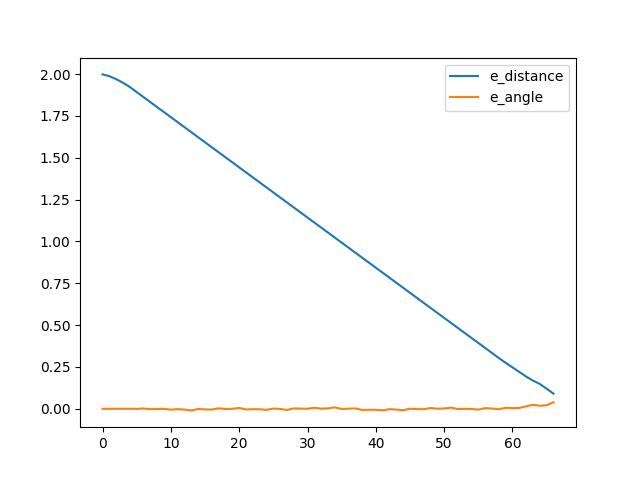
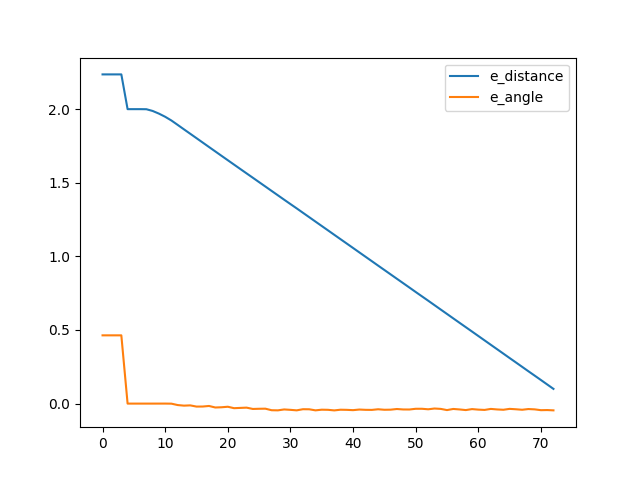
still trying

diff --git a/src/independent_paths.py b/src/independent_paths.py
@@ -6,23 +6,19 @@ from rospy.rostime import Duration
 from tf.transformations import euler_from_quaternion, quaternion_from_euler
 from geometry_msgs.msg import Twist
 from nav_msgs.msg import Odometry
-from formation.msg import To_Goal
-from sensor_msgs.msg import LaserScan
+from formation.msg import arrive
 
 class go_to_Goal:
     def __init__(self):
+        #initialization
         self.follow = Twist()
         self.follower1 = Twist()
         self.follower2 = Twist()
-        self.arrive = To_Goal()
-        self.other_arrive_1 = To_Goal()
-        self.other_arrive_2 = To_Goal()
-        self.scan = LaserScan()
+        self.arrive = arrive()
         self.rate = rospy.Rate(10)
         self.sleeper = rospy.Rate(5)
         self.x, self.y, self.z, self.a1 = 0, 0, 0, 0
         self.vel_1_linear, self.vel_1_angular, self.vel_2_linear, self.vel_2_angular = 0, 0, 0, 0
-        self.other_arrive_1, self.other_arrive_2 = False, False
 
         #All the parameter
         self.name = rospy.get_param('~turtle')
@@ -32,8 +28,7 @@ class go_to_Goal:
 
         #All the publisher
         self.pub_vel = rospy.Publisher('/%s/cmd_vel' % self.name, Twist, queue_size=1)
-        self.pub_vel_1 = rospy.Publisher('/%s/cmd_vel' % self.others1, Twist, queue_size=1)
-        self.pub_vel_2 = rospy.Publisher('/%s/cmd_vel' % self.others2, Twist, queue_size=1)
+        self.pub_arrive = rospy.Publisher('%s_arrive' % self.name, arrive, queue_size=1)
 
         #All the subscriber
         self.turtle = rospy.Subscriber('/%s/odom' % self.name, Odometry, self.turtle_odom)
@@ -43,27 +38,27 @@ class go_to_Goal:
         #generate trajectory
         self.traj = self.traj_trans(3, self.offset, 5)
         self.log = []
-        #rospy.spin()
 
         while not rospy.is_shutdown():
             for i in range(len(self.traj)):
                 point = self.traj[i]
                 if self.go_to_goal(point[0], point[1]):
                     
+                    #wait until all the robots arrive at the waypoints
                     while (self.vel_1_linear != 0) or (self.vel_2_linear != 0) or (self.vel_1_angular != 0) or (self.vel_2_angular != 0):
                         self.follow.linear.x = 0
                         self.follow.angular.z = 0
                         self.pub_vel.publish(self.follow)
                         self.rate.sleep()
-                        
-                        #self.pub_arrive_1.publish(self.arrive)
-                        #self.pub_arrive_2.publish(self.arrive) 
+
+                    #plot the error    
                     plt.plot(self.log[1:])
                     plt.legend(['e_distance','e_angle'])
                     plt.savefig('/home/jack/catkin_ws/src/formation/error_plot/%spath_data.png' % self.name)
                     continue
 
                 else:
+                    #go back to the last waypoint if the robot fail to arrive at this waypoint
                     print ('invalid goal, return to last point')
                     if self.go_to_goal(self.traj[i-1][0],self.traj[i-1][1]):
                         continue
@@ -72,16 +67,7 @@ class go_to_Goal:
             self.follow.angular.z = 0
             self.pub = rospy.Publisher('/%s/cmd_vel' % self.name, Twist, queue_size=1)
             self.pub_vel.publish(self.follow)
-            break
-    
-    def turtle_scan(self, msg):
-        self.other_scan = msg
-
-    def turtle_arrive_1(self, msg):
-        self.other_arrive_1 = msg
-
-    def turtle_arrive_2(self, msg):
-        self.other_arrive_2 = msg    
+            break  
 
     def turtle_odom(self, msg):
         self.msg1 = msg
@@ -128,54 +114,20 @@ class go_to_Goal:
 
     def go_to_goal(self, x_goal, y_goal):
         mission_time_begin = rospy.Time.now()
-        #keep the robot on the correct orientation
-        #self.arrive.arrive = False
-        #self.pub_arrive_1.publish(self.arrive)
-        #self.pub_arrive_2.publish(self.arrive)
-        K_angular = [4, 1, 8]
-        K_linear = [1.5, 0.1, 3]
-        I = 0
-        desired_angle_goal = math.atan2(y_goal - self.y, x_goal - self.x)
-        angle = desired_angle_goal - self.a1
-        angle = self.angle_trans(angle)
-        while (abs(angle) > 0.01):
-            desired_angle_goal = math.atan2(y_goal - self.y, x_goal - self.x)
-            angle_0 = desired_angle_goal - self.a1
-            time_begin = rospy.Time.now()
-            self.rate.sleep()
-            time_end = rospy.Time.now()
-            duration = (time_end - time_begin).to_sec()
-            desired_angle_goal = math.atan2(y_goal - self.y, x_goal - self.x)
-            angle = desired_angle_goal - self.a1
-            angle = self.angle_trans(angle)
-            if duration == 0:
-                continue
-            
-            I = I + K_angular[1] * duration * (angle+angle_0)/2
+        self.arrive = False
+        self.pub_arrive.publish(self.arrive)
 
-            angular_speed = (angle * K_angular[0] + I + K_angular[2] * (angle-angle_0)/duration)
-            
-            linear_speed = 0
-            if angular_speed > 0.2:
-                angular_speed = 0.2
-            if angular_speed < -0.2:
-                angular_speed = -0.2
+        #PID parameters
+        K_angular = [4, 1, 4]
+        K_linear = [4, 0.1, 3]
+        I = 0 
 
-            self.follow.linear.x = linear_speed
-            self.follow.angular.z = angular_speed
-            self.pub_vel.publish(self.follow)  
-
-        # self.rate.sleep()
-
-        # while (self.vel_1_angular != 0) or (self.vel_2_angular != 0):
-        #     self.follow.linear.x = 0
-        #     self.follow.angular.z = 0
-        #     self.pub_vel.publish(self.follow)
+        desired_angle_goal, angle = 0, 0
                 
         I_linear = 0
         I_angular = 0
 
-        while (True):
+        while not (self.arrive):
 
             desired_angle_goal = math.atan2(y_goal - self.y, x_goal - self.x)
             angle_0 = desired_angle_goal - self.a1
@@ -201,7 +153,7 @@ class go_to_Goal:
            
             linear_speed = distance * K_linear[0] + I_linear + K_linear[2] * (distance-distance_0)/duration
 
-            #angular speed and linear speed control
+            #angular speed and linear speed limitation
             if linear_speed > 0.3:
                 linear_speed = 0.3
             if angular_speed > 0.1:
@@ -209,41 +161,64 @@ class go_to_Goal:
             if angular_speed < -0.1:
                 angular_speed = -0.1
 
-            #check if robot is in formation with others
-            # if abs(self.scan.ranges[90]) == math.inf:
-            #     self.follow.linear.x = 0
-            #     self.follow.angular.z = 0
-            #     self.pub_vel.publish(self.follow)
-
-            #wait for other robot to turn to the correct orientation
             self.follow.linear.x = linear_speed
             self.follow.angular.z = angular_speed
-            self.pub = rospy.Publisher('/%s/cmd_vel' % self.name, Twist, queue_size=1)
             self.pub_vel.publish(self.follow)
-            #print ('x=', self.x, 'y=', self.y)
             self.log.append([distance,angle])
-
-
-            if (rospy.Time.now() - mission_time_begin).to_sec() > 60:
-                return False
+        
             if (distance < 0.1):
                 self.follow.linear.x = 0
                 self.follow.angular.z = 0
                 self.pub_vel.publish(self.follow)
                 self.rate.sleep()
-                #self.arrive.arrive = True
-                #self.pub_arrive_1.publish(self.arrive)
-                #self.pub_arrive_2.publish(self.arrive)
-                return True
+                desired_angle_goal = math.atan2(y_goal - self.y, x_goal - self.x)
+                self.arrive = True
+                self.pub_arrive.publish(self.arrive)
+                print(self.name)
+                print(self.arrive)
+                print('   ')
+
+        #After arriving at a waypoint, turn the robot until it faces the next waypoint       
+        while (abs(angle) > 0.01):
+            print(self.name)
+            print('fuck')
+            print('   ')
+            desired_angle_goal = math.atan2(y_goal - self.y, x_goal - self.x)
+            angle_0 = desired_angle_goal - self.a1
+            time_begin = rospy.Time.now()
+            self.rate.sleep()
+            time_end = rospy.Time.now()
+            duration = (time_end - time_begin).to_sec()
+            desired_angle_goal = math.atan2(y_goal - self.y, x_goal - self.x)
+            angle = desired_angle_goal - self.a1
+            angle = self.angle_trans(angle)
+            if duration == 0:
+                continue
             
+            I = I + K_angular[1] * duration * (angle+angle_0)/2
+
+            angular_speed = (angle * K_angular[0] + I + K_angular[2] * (angle-angle_0)/duration)
+            
+            linear_speed = 0
+            if angular_speed > 0.2:
+                angular_speed = 0.2
+            if angular_speed < -0.2:
+                angular_speed = -0.2
+
+            self.follow.linear.x = linear_speed
+            self.follow.angular.z = angular_speed
+            self.pub_vel.publish(self.follow) 
+
+        if (rospy.Time.now() - mission_time_begin).to_sec() > 60:
+            return False
+
+        return True
 
 if __name__ == '__main__':
-
 
     rospy.init_node('turtlesim_motion_pose', anonymous=True)
     try:
         f = go_to_Goal()
-
 
     except rospy.ROSInterruptException:
         rospy.loginfo("node terminated.")

diff --git a/src/try_message.py b/src/try_message.py
@@ -50,7 +50,7 @@ class go_to_Goal:
                 point = self.traj[i]
                 if self.go_to_goal(point[0], point[1]):
                     
-                    #wait for other robots to arrive at the waypoints
+                    #wait for other robots arrive at the waypoints
                     while not (self.other_turtle_1_ready and self.other_turtle_2_ready):
                         self.follow.linear.x = 0
                         self.follow.angular.z = 0
@@ -64,7 +64,7 @@ class go_to_Goal:
                     continue
 
                 else:
-                    #go back to the last waypoint if the robot can't arrive 
+                    #go back to the last waypoint if the robot fail to arrive at this waypoint
                     print ('invalid goal, return to last point')
                     if self.go_to_goal(self.traj[i-1][0],self.traj[i-1][1]):
                         continue
@@ -126,7 +126,7 @@ class go_to_Goal:
 
         #PID parameters
         K_angular = [4, 1, 8]
-        K_linear = [1.5, 0.1, 3]
+        K_linear = [2, 0.1, 3]
         I = 0 
 
         desired_angle_goal, angle = 0, 0
@@ -187,6 +187,8 @@ class go_to_Goal:
             print(self.name)
             print(self.other_turtle_1_ready)
             print(self.other_turtle_2_ready)
+            print('   ')
+            print('   ')
             print('   ')
         
             if (distance < 0.1):
